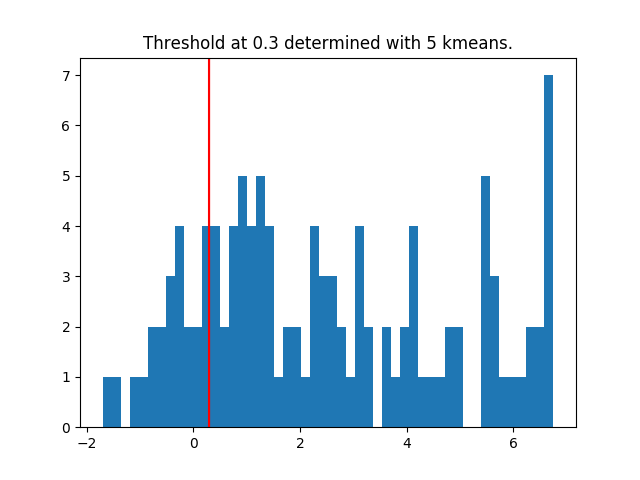
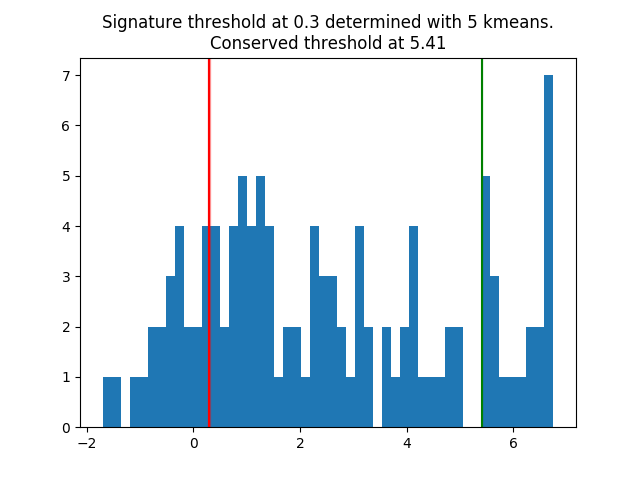
Adding threshold for conserved residues

Changed region(s): [[0.1562, 0.0312, 0.875, 0.375]]

diff --git a/bin/twcDist.py b/bin/twcDist.py
@@ -75,13 +75,16 @@ def calculate_stats(twcListData, ks):
             maxLoc.append(ix)
 
     lowOutlierDatas = [twcListData[loc] for loc in minLoc]
-    return [np.max(lowOutlierDatas), groups]
+    highOutlierDatas = [twcListData[loc] for loc in maxLoc]
+    return [np.max(lowOutlierDatas), np.min(highOutlierDatas), groups]
 
-def plot_data_dist_and_anomaly_threshold(data, lower_limit, lowerStd, outpath):
-    plt.title(f"Threshold at {round(lower_limit,2)} determined with 5 kmeans.")
+def plot_data_dist_and_anomaly_threshold(data, lowerLimit, lowerStd, upperlimit, upperStd, outpath):
+    plt.title(f"Signature threshold at {round(lowerLimit,2)} determined with 5 kmeans.\nConserved threshold at {round(upperlimit,2)}")
     plt.hist(list(data.values()), bins=50)
-    plt.axvline(x=lower_limit, color='r')
-    plt.axvspan(lower_limit-lowerStd, lower_limit+lowerStd, color='r', alpha=.5)
+    plt.axvline(x=lowerLimit, color='r')
+    plt.axvline(x=upperlimit, color='g')
+    plt.axvspan(lowerLimit-lowerStd, lowerLimit+lowerStd, color='r', alpha=.3)
+    plt.axvspan(upperlimit-upperStd, upperlimit+upperStd, color='g', alpha=.3)
     plt.savefig(outpath)
     plt.close()
     return True
@@ -93,23 +96,27 @@ def main(inTWC, outpng, outcsv):
     twcListData = list(twc_data.values())
 
     i = 0
-    statMins = list()
+    statMins, statsMaxs = list(), list()
     while i < 100:
         statMins.append(calculate_stats(twcListData, 5)[0])
+        statsMaxs.append(calculate_stats(twcListData, 5)[1])
         i += 1
 
-    groups = calculate_stats(twcListData, 5)[1]
-    print(round(np.mean(statMins),3), round(np.std(statMins),3))
+    groups = calculate_stats(twcListData, 5)[2]
+    print(f"Min thr: {round(np.mean(statMins),3)}, STD: {round(np.std(statMins),3)}\tMax thr: {round(np.mean(statsMaxs),3)}, STD: {round(np.std(statsMaxs),3)}")
     signatureThreshold = np.mean(statMins)
+    conservedThreshold = np.mean(statsMaxs)
 
     plt.title(f"TWC signature threshold {round(signatureThreshold,2)}")
     plt.scatter(twcListData, np.arange(0,len(twcListData)), c=groups)
     plt.axvline(x=signatureThreshold, c='r')
-    plt.axvspan(signatureThreshold-np.std(statMins), signatureThreshold+np.std(statMins), color='r', alpha=.5)
+    plt.axvline(x=conservedThreshold, c='g')
+    plt.axvspan(signatureThreshold-np.std(statMins), signatureThreshold+np.std(statMins), color='r', alpha=.3)
+    plt.axvspan(conservedThreshold-np.std(statsMaxs), conservedThreshold+np.std(statsMaxs), color='g', alpha=.3)
     plt.savefig(outpng.replace('.png', '_groups.png'))
     plt.close()
 
-    plot_data_dist_and_anomaly_threshold(twc_data, signatureThreshold, np.std(statMins), outpng)
+    plot_data_dist_and_anomaly_threshold(twc_data, signatureThreshold, np.std(statMins), conservedThreshold, np.std(statsMaxs), outpng)
     with open(outcsv, 'w') as f:
         f.write(f"TWC signature threshold and STD {round(np.mean(statMins),3)},{round(np.std(statMins),3)}\n")
         f.write("Residue,TWC\n")
